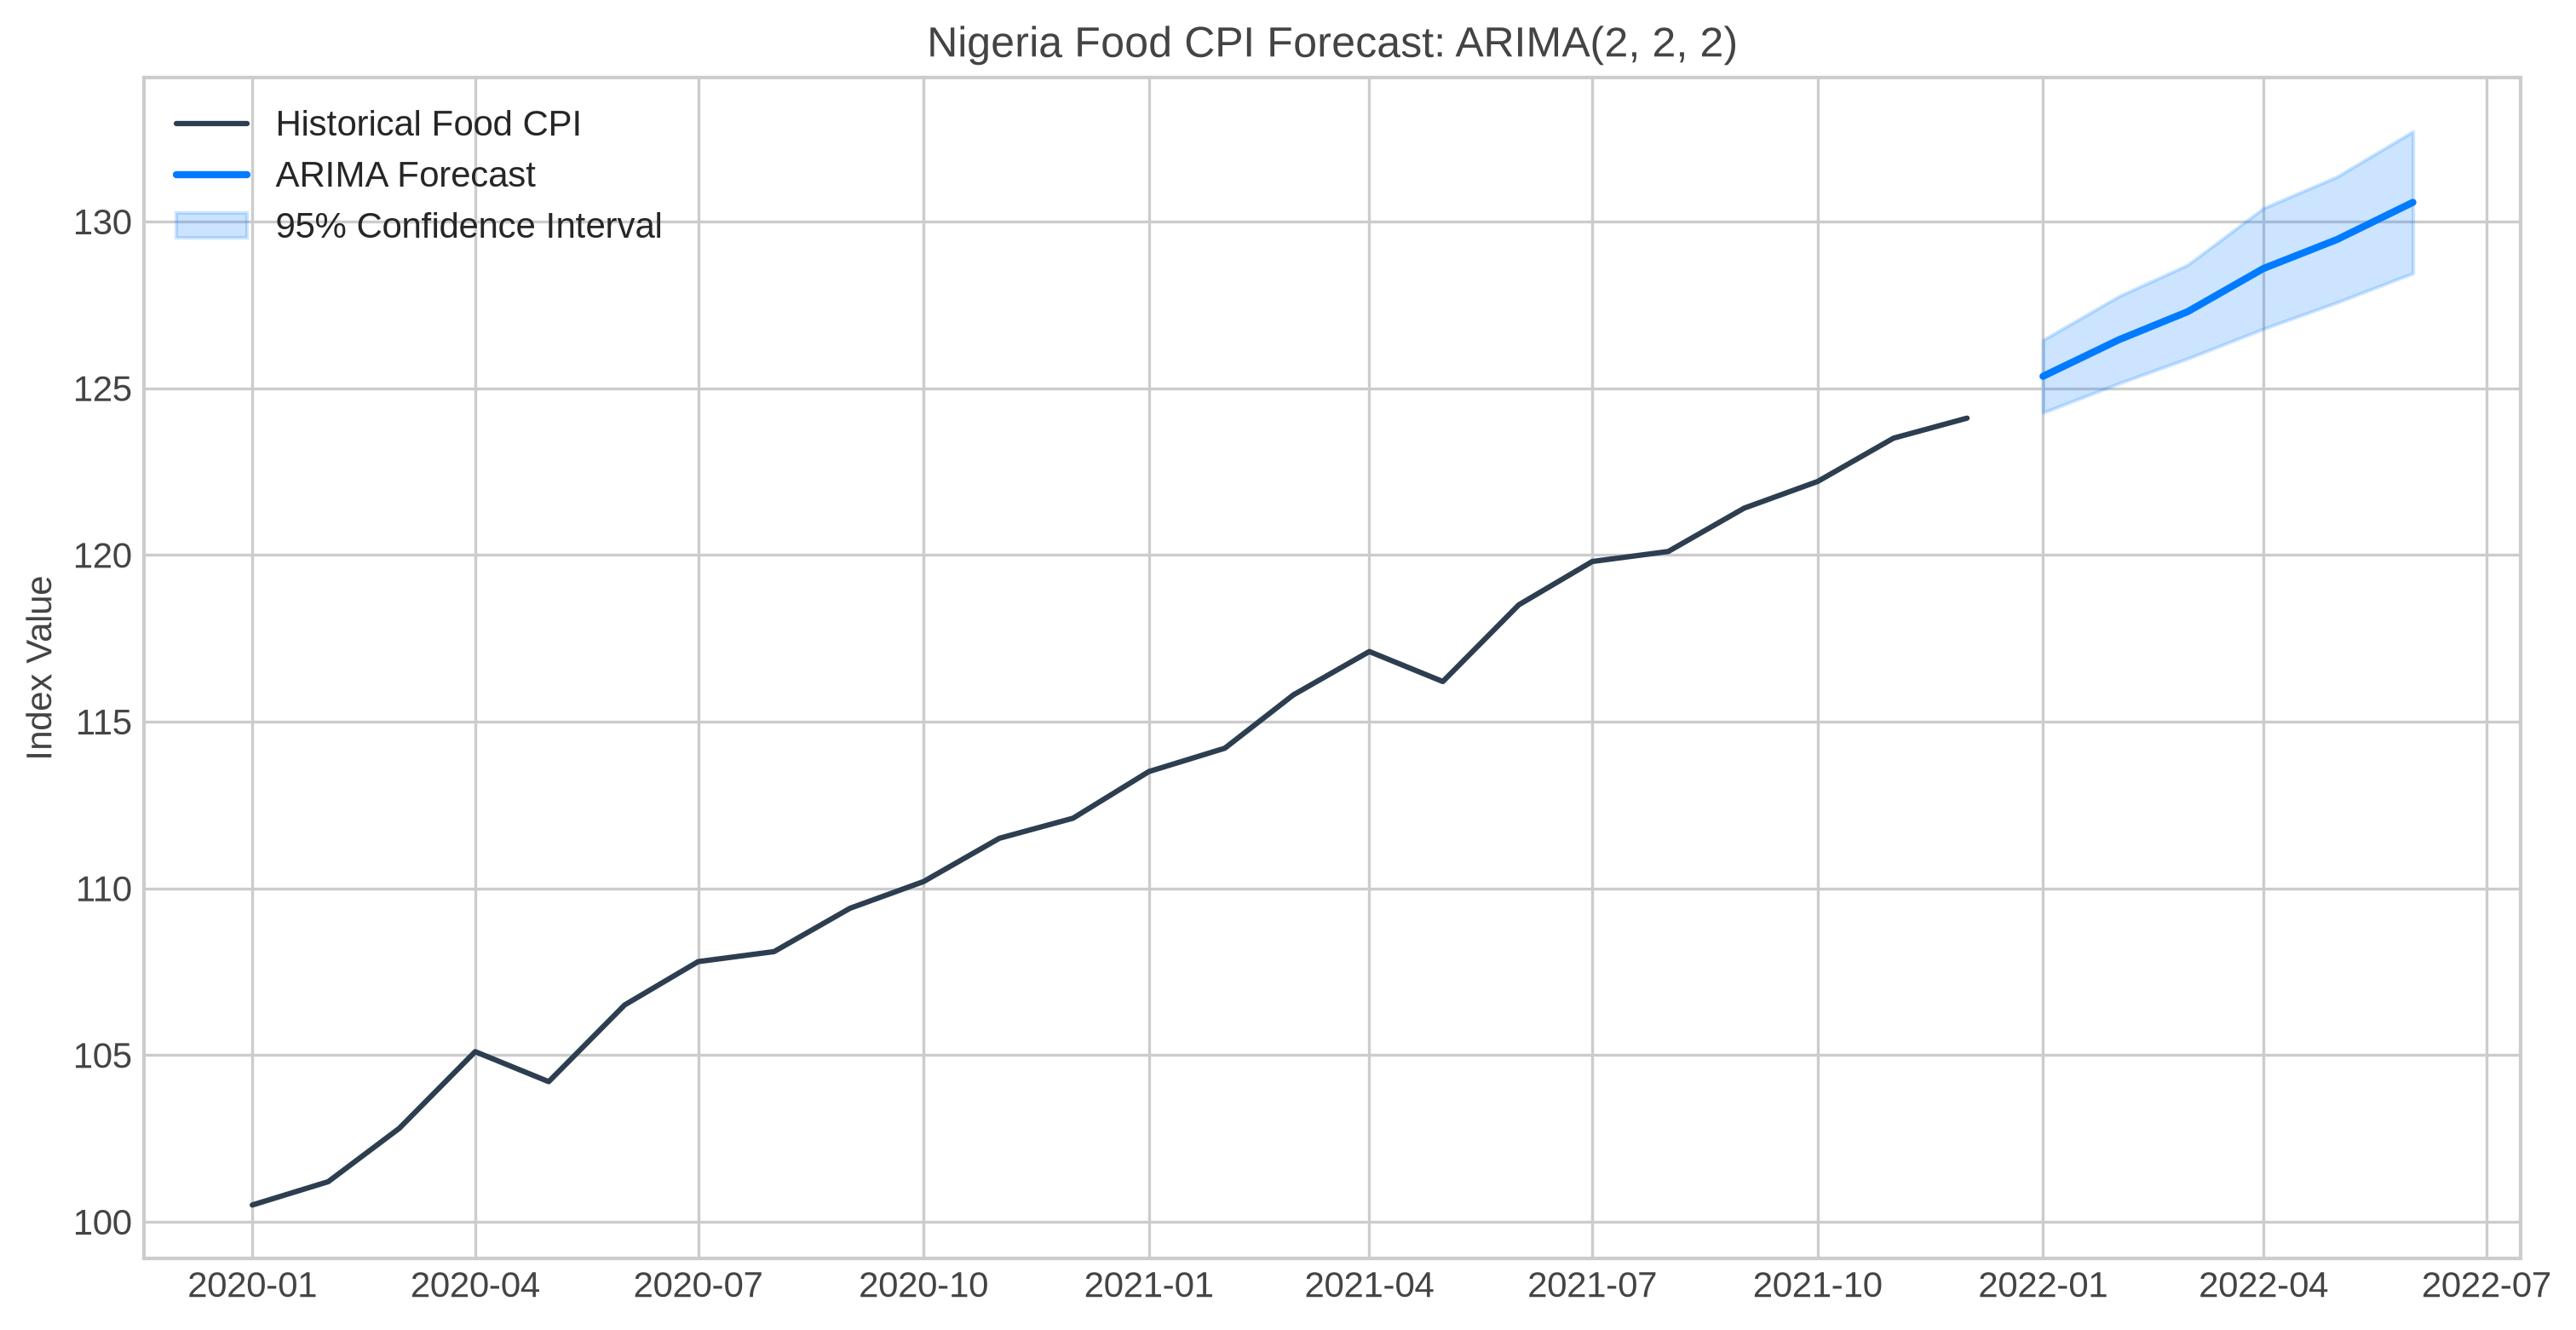
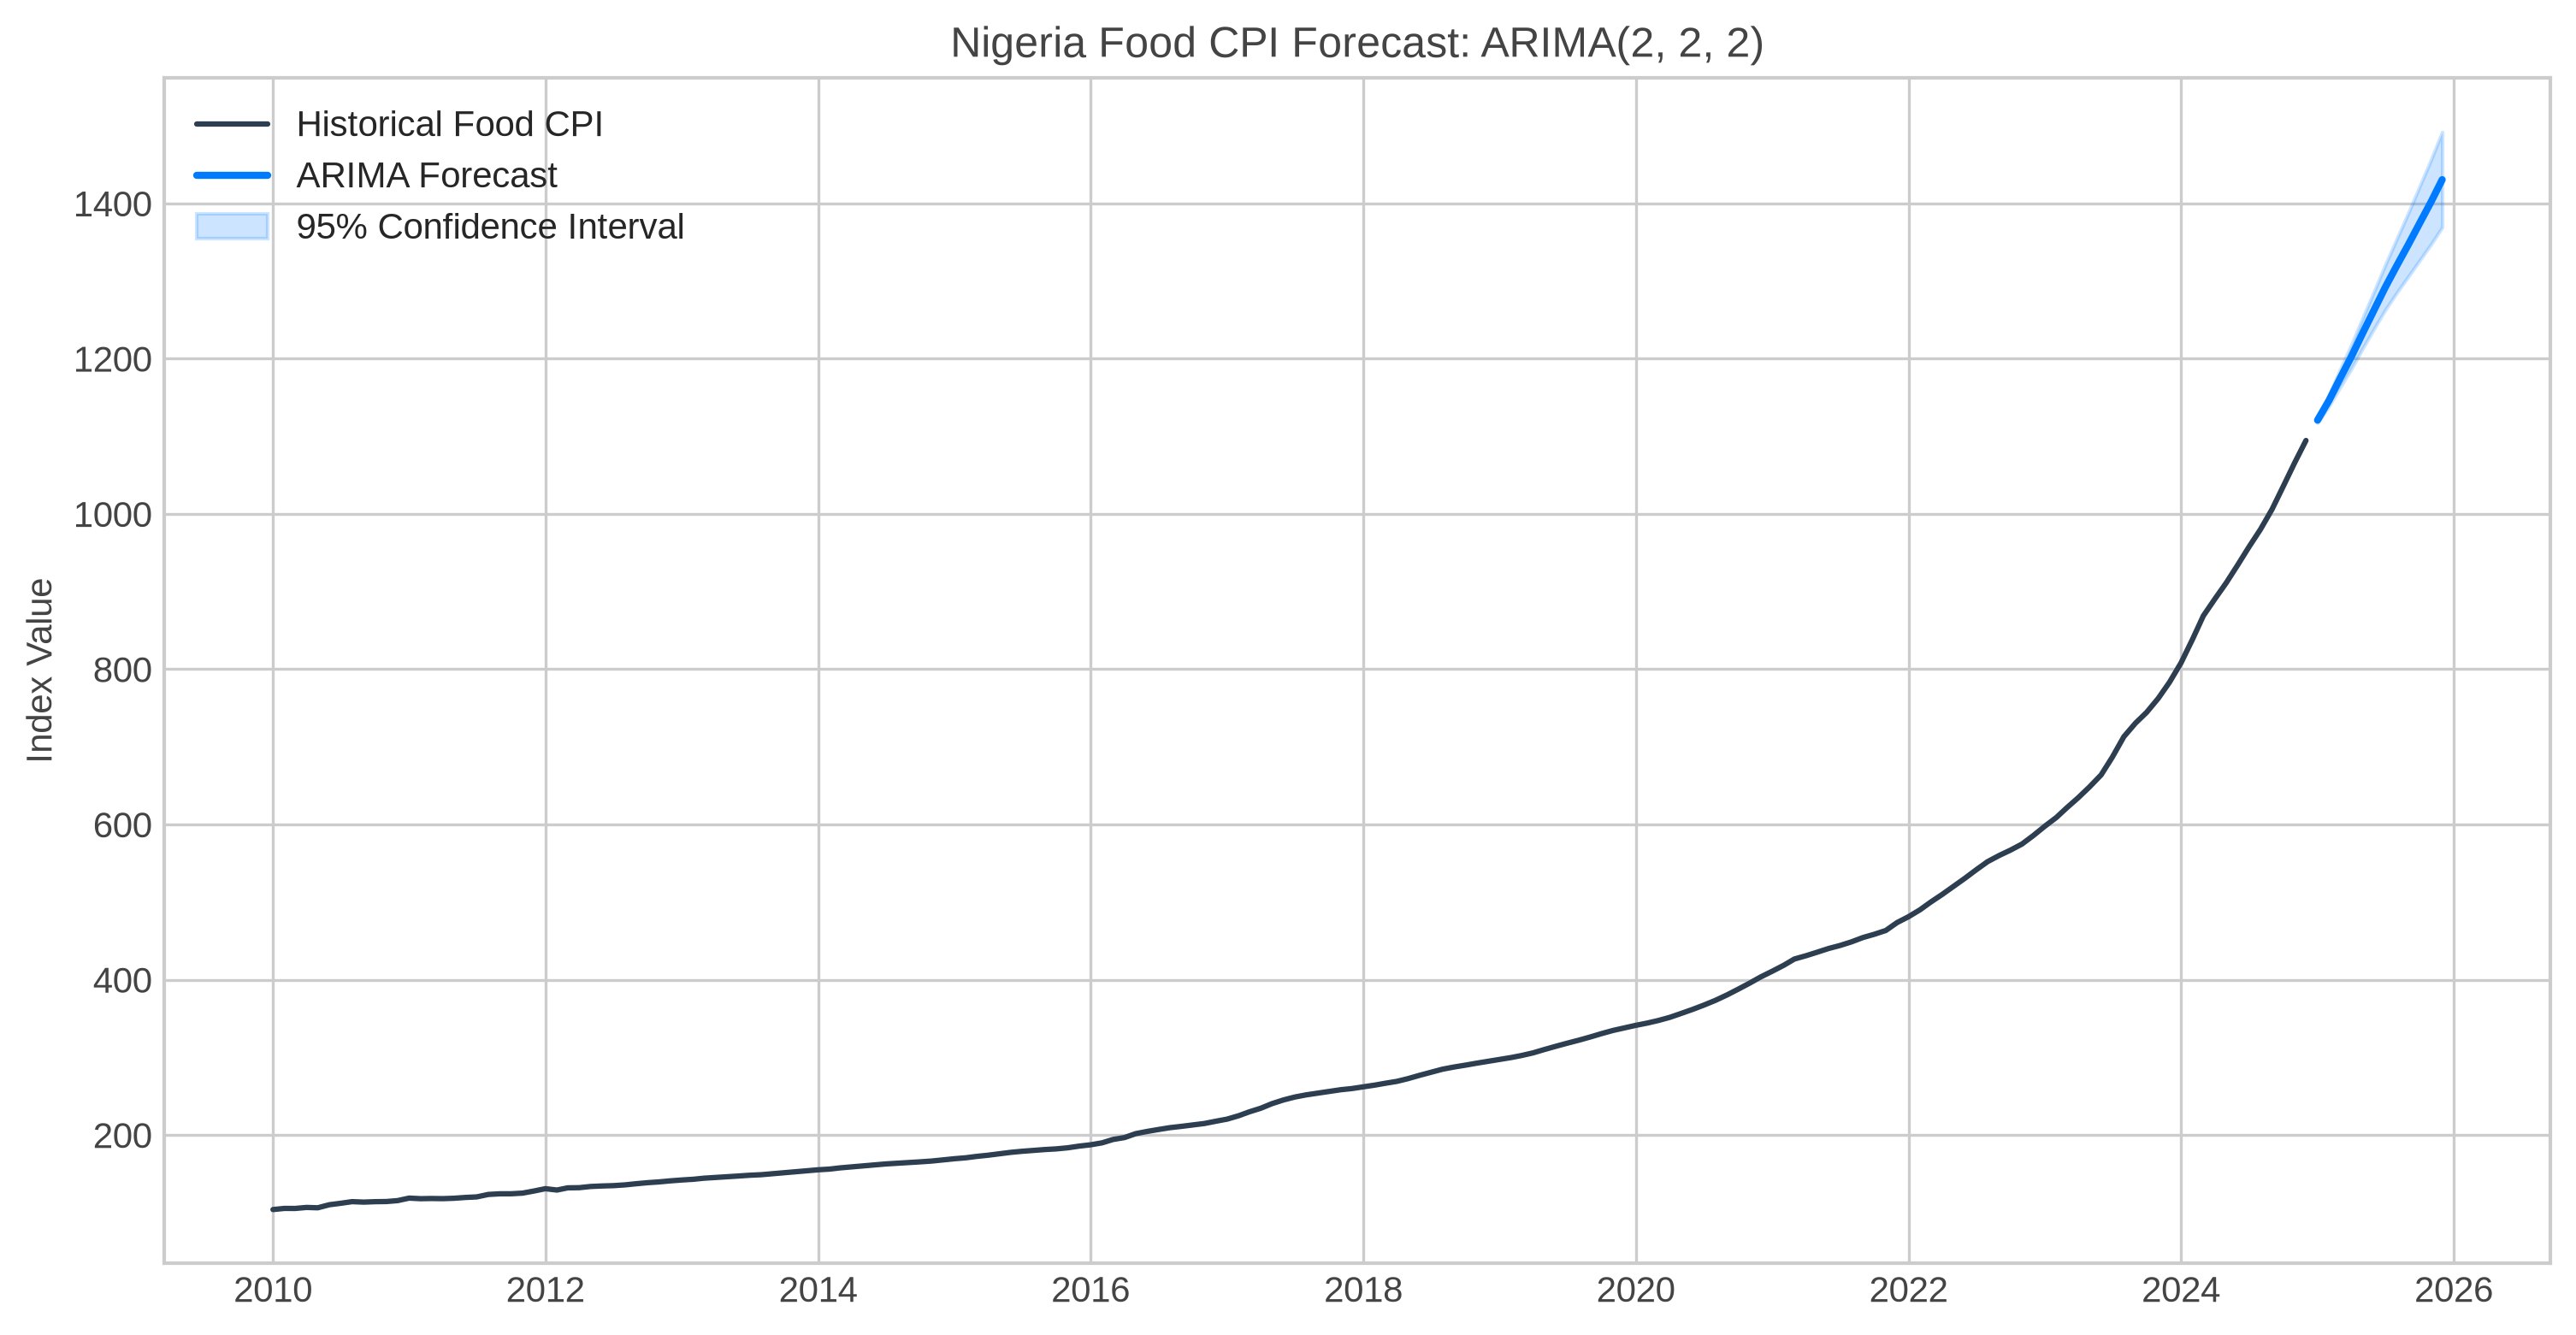
fix: isolate test outputs and restore real figures/tables
The end-to-end tests called load_data/generate_forecast, which saved figures
and tables into the shared outputs/ directory using the small synthetic test
fixture, overwriting the committed artifacts generated from the real NBS data
(fig1, fig6, table1, table3, table6 had been polluted with the 2020-2021
test series).

Point the tests at a throwaway tempfile directory so they can never touch
outputs/, and regenerate the real figures/tables from main.py.

Claude-Session: https://claude.ai/code/session_01Lhkfp7xrdUS8AgDpQLpWnJ

diff --git a/tests/test_generic.py b/tests/test_generic.py
@@ -6,6 +6,7 @@ These exercise the generic CSV-upload path using the small synthetic
 run quickly without needing the full NBS Excel dataset.
 """
 import os
+import tempfile
 
 import numpy as np
 import pandas as pd
@@ -27,6 +28,11 @@ def _make_forecaster():
     config.forecast_start = "2022-01-01"
     # A clean CSV has a single header row, unlike the multi-row NBS Excel layout.
     config.data_row_start = 1
+    # Write figures/tables to a throwaway dir so tests never overwrite the
+    # committed outputs/ produced from the real NBS data.
+    tmp = tempfile.mkdtemp(prefix="cpi_test_outputs_")
+    config.figures_dir = os.path.join(tmp, "figures")
+    config.tables_dir = os.path.join(tmp, "tables")
     return FoodCPIForecaster(config)
 
 